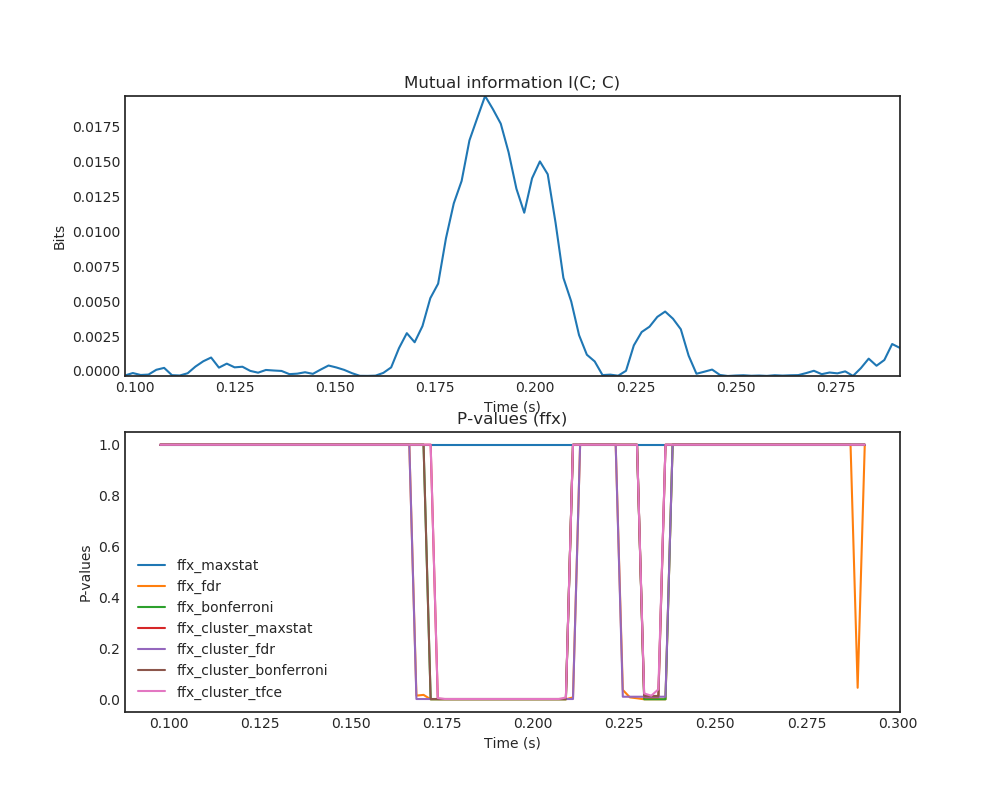
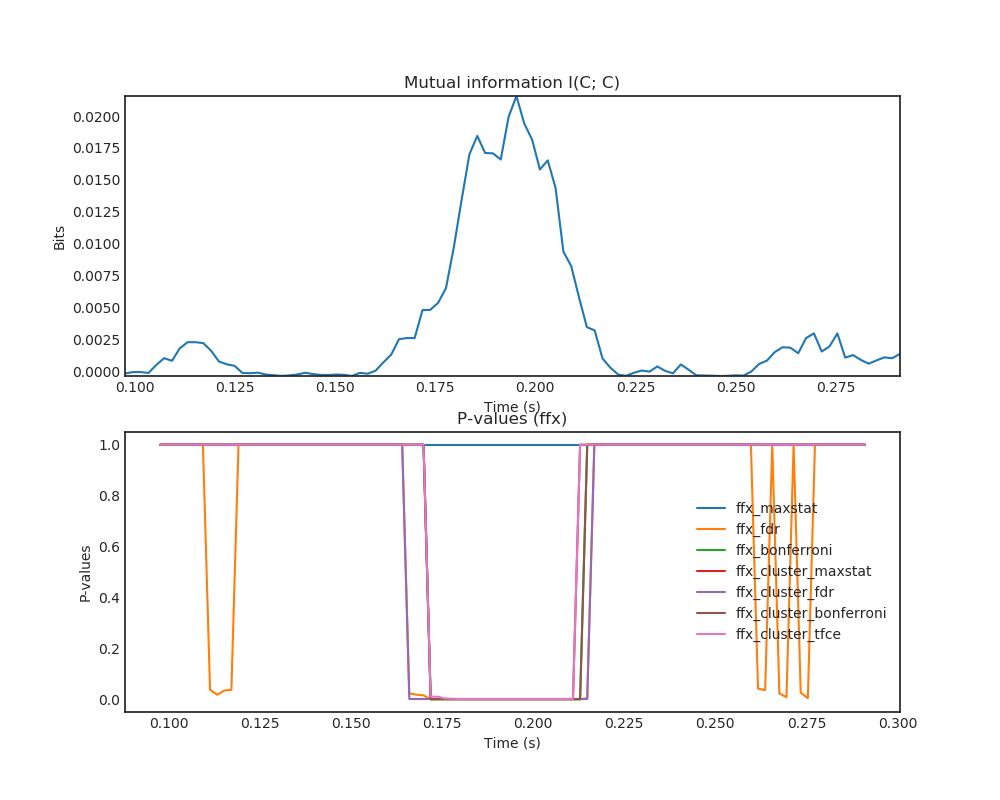
Make install

diff --git a/_modules/frites/workflow/wf_mi.html b/_modules/frites/workflow/wf_mi.html
@@ -479,58 +479,6 @@
 <span class="sd">        of this list has a shape of (n_subjects, n_times) if `inference` is</span>
 <span class="sd">        &#39;rfx&#39; (1, n_times) if `inference` is &#39;ffx&#39;.&quot;&quot;&quot;</span>
         <span class="k">return</span> <span class="bp">self</span><span class="o">.</span><span class="n">_mi_p</span></div>
-    
-    
-
-
-<span class="k">if</span> <span class="vm">__name__</span> <span class="o">==</span> <span class="s1">&#39;__main__&#39;</span><span class="p">:</span>
-    <span class="kn">import</span> <span class="nn">matplotlib.pyplot</span> <span class="k">as</span> <span class="nn">plt</span>
-
-    <span class="kn">from</span> <span class="nn">frites.simulations</span> <span class="k">import</span> <span class="p">(</span><span class="n">sim_multi_suj_ephy</span><span class="p">,</span> <span class="n">sim_mi_cc</span><span class="p">,</span> <span class="n">sim_mi_cd</span><span class="p">,</span>
-                                    <span class="n">sim_mi_ccd</span><span class="p">)</span>
-    <span class="kn">from</span> <span class="nn">frites.dataset</span> <span class="k">import</span> <span class="n">DatasetEphy</span>
-    <span class="kn">from</span> <span class="nn">frites.core</span> <span class="k">import</span> <span class="n">mi_nd_gg</span>
-
-    <span class="n">modality</span> <span class="o">=</span> <span class="s1">&#39;meeg&#39;</span>
-    <span class="n">n_subjects</span> <span class="o">=</span> <span class="mi">10</span>
-    <span class="n">n_epochs</span> <span class="o">=</span> <span class="mi">100</span>
-    <span class="n">n_times</span> <span class="o">=</span> <span class="mi">40</span>
-    <span class="n">n_roi</span> <span class="o">=</span> <span class="mi">5</span>
-    <span class="n">n_sites_per_roi</span> <span class="o">=</span> <span class="mi">1</span>
-    <span class="n">as_mne</span> <span class="o">=</span> <span class="kc">False</span>
-    <span class="n">x</span><span class="p">,</span> <span class="n">roi</span><span class="p">,</span> <span class="n">time</span> <span class="o">=</span> <span class="n">sim_multi_suj_ephy</span><span class="p">(</span><span class="n">n_subjects</span><span class="o">=</span><span class="n">n_subjects</span><span class="p">,</span> <span class="n">n_epochs</span><span class="o">=</span><span class="n">n_epochs</span><span class="p">,</span>
-                                      <span class="n">n_times</span><span class="o">=</span><span class="n">n_times</span><span class="p">,</span> <span class="n">n_roi</span><span class="o">=</span><span class="n">n_roi</span><span class="p">,</span>
-                                      <span class="n">n_sites_per_roi</span><span class="o">=</span><span class="n">n_sites_per_roi</span><span class="p">,</span>
-                                      <span class="n">as_mne</span><span class="o">=</span><span class="n">as_mne</span><span class="p">,</span> <span class="n">modality</span><span class="o">=</span><span class="n">modality</span><span class="p">,</span>
-                                      <span class="n">random_state</span><span class="o">=</span><span class="mi">1</span><span class="p">)</span>
-    <span class="n">z</span> <span class="o">=</span> <span class="kc">None</span>
-    <span class="c1"># x, y, _ = sim_mi_cd(x, snr=.9)</span>
-    <span class="c1"># x, y, _ = sim_mi_cd(x, snr=.9)</span>
-    <span class="n">y</span><span class="p">,</span> <span class="n">z</span><span class="p">,</span> <span class="n">_</span> <span class="o">=</span> <span class="n">sim_mi_ccd</span><span class="p">(</span><span class="n">x</span><span class="p">,</span> <span class="n">snr</span><span class="o">=.</span><span class="mi">2</span><span class="p">)</span>
-    <span class="n">time</span> <span class="o">=</span> <span class="n">np</span><span class="o">.</span><span class="n">arange</span><span class="p">(</span><span class="n">n_times</span><span class="p">)</span> <span class="o">/</span> <span class="mi">512</span>
-
-    <span class="c1"># y_t = np.tile(y[0].reshape(-1, 1, 1), (1, x[0].shape[1], 100))</span>
-    <span class="c1"># print(x[0].shape, y[0].shape)</span>
-    <span class="c1"># mi_t = mi_nd_gg(x[0], y_t, traxis=0)</span>
-
-    <span class="c1"># plt.plot(mi_t.T)</span>
-    <span class="c1"># plt.show()</span>
-    <span class="c1"># exit()</span>
-
-    <span class="n">dt</span> <span class="o">=</span> <span class="n">DatasetEphy</span><span class="p">(</span><span class="n">x</span><span class="p">,</span> <span class="n">y</span><span class="p">,</span> <span class="n">z</span><span class="o">=</span><span class="n">z</span><span class="p">,</span> <span class="n">roi</span><span class="o">=</span><span class="n">roi</span><span class="p">,</span> <span class="n">times</span><span class="o">=</span><span class="n">time</span><span class="p">)</span>
-    <span class="n">wf</span> <span class="o">=</span> <span class="n">WfMi</span><span class="p">(</span><span class="s1">&#39;ccd&#39;</span><span class="p">,</span> <span class="s1">&#39;rfx&#39;</span><span class="p">)</span>
-    <span class="c1"># mi, pvalues = wf.fit(dt, n_jobs=-1, n_perm=20, stat_method=&#39;ffx_fdr&#39;)</span>
-    <span class="n">mi</span><span class="p">,</span> <span class="n">pvalues</span> <span class="o">=</span> <span class="n">wf</span><span class="o">.</span><span class="n">fit</span><span class="p">(</span><span class="n">dt</span><span class="p">,</span> <span class="n">n_jobs</span><span class="o">=-</span><span class="mi">1</span><span class="p">,</span> <span class="n">n_perm</span><span class="o">=</span><span class="mi">100</span><span class="p">,</span>
-                         <span class="n">stat_method</span><span class="o">=</span><span class="s1">&#39;rfx_cluster_ttest_tfce&#39;</span><span class="p">)</span>
-
-    <span class="kn">import</span> <span class="nn">matplotlib.pyplot</span> <span class="k">as</span> <span class="nn">plt</span>
-    <span class="n">plt</span><span class="o">.</span><span class="n">subplot</span><span class="p">(</span><span class="mi">211</span><span class="p">)</span>
-    <span class="n">plt</span><span class="o">.</span><span class="n">plot</span><span class="p">(</span><span class="n">mi</span><span class="p">)</span>
-    <span class="n">plt</span><span class="o">.</span><span class="n">subplot</span><span class="p">(</span><span class="mi">212</span><span class="p">)</span>
-    <span class="n">plt</span><span class="o">.</span><span class="n">plot</span><span class="p">(</span><span class="n">pvalues</span><span class="p">)</span>
-    <span class="n">plt</span><span class="o">.</span><span class="n">legend</span><span class="p">()</span>
-
-    <span class="n">plt</span><span class="o">.</span><span class="n">show</span><span class="p">()</span>
 </pre></div>
 
     </div>

diff --git a/auto_examples/workflow/sg_execution_times.html b/auto_examples/workflow/sg_execution_times.html
@@ -177,10 +177,10 @@
       
   <div class="section" id="computation-times">
 <span id="sphx-glr-auto-examples-workflow-sg-execution-times"></span><h1>Computation times<a class="headerlink" href="#computation-times" title="Permalink to this headline">¶</a></h1>
-<p><strong>00:07.802</strong> total execution time for <strong>auto_examples_workflow</strong> files:</p>
+<p><strong>00:06.563</strong> total execution time for <strong>auto_examples_workflow</strong> files:</p>
 <ul class="simple">
-<li><p><strong>00:04.957</strong>: <a class="reference internal" href="plot_workflow_mi_stats_compare_ffx.html#sphx-glr-auto-examples-workflow-plot-workflow-mi-stats-compare-ffx-py"><span class="std std-ref">Compare within-subjects statistics when computing mutual information</span></a> (<code class="docutils literal notranslate"><span class="pre">plot_workflow_mi_stats_compare_ffx.py</span></code>)</p></li>
-<li><p><strong>00:02.845</strong>: <a class="reference internal" href="plot_workflow_mi_stats_compare_rfx.html#sphx-glr-auto-examples-workflow-plot-workflow-mi-stats-compare-rfx-py"><span class="std std-ref">Compare between-subjects statistics when computing mutual information</span></a> (<code class="docutils literal notranslate"><span class="pre">plot_workflow_mi_stats_compare_rfx.py</span></code>)</p></li>
+<li><p><strong>00:04.249</strong>: <a class="reference internal" href="plot_workflow_mi_stats_compare_ffx.html#sphx-glr-auto-examples-workflow-plot-workflow-mi-stats-compare-ffx-py"><span class="std std-ref">Compare within-subjects statistics when computing mutual information</span></a> (<code class="docutils literal notranslate"><span class="pre">plot_workflow_mi_stats_compare_ffx.py</span></code>)</p></li>
+<li><p><strong>00:02.314</strong>: <a class="reference internal" href="plot_workflow_mi_stats_compare_rfx.html#sphx-glr-auto-examples-workflow-plot-workflow-mi-stats-compare-rfx-py"><span class="std std-ref">Compare between-subjects statistics when computing mutual information</span></a> (<code class="docutils literal notranslate"><span class="pre">plot_workflow_mi_stats_compare_rfx.py</span></code>)</p></li>
 </ul>
 </div>
 

diff --git a/auto_examples/simulations/sg_execution_times.html b/auto_examples/simulations/sg_execution_times.html
@@ -177,9 +177,9 @@
       
   <div class="section" id="computation-times">
 <span id="sphx-glr-auto-examples-simulations-sg-execution-times"></span><h1>Computation times<a class="headerlink" href="#computation-times" title="Permalink to this headline">¶</a></h1>
-<p><strong>00:00.529</strong> total execution time for <strong>auto_examples_simulations</strong> files:</p>
+<p><strong>00:00.487</strong> total execution time for <strong>auto_examples_simulations</strong> files:</p>
 <ul class="simple">
-<li><p><strong>00:00.529</strong>: <a class="reference internal" href="plot_generate_random_data.html#sphx-glr-auto-examples-simulations-plot-generate-random-data-py"><span class="std std-ref">Generate random electrophysiological data</span></a> (<code class="docutils literal notranslate"><span class="pre">plot_generate_random_data.py</span></code>)</p></li>
+<li><p><strong>00:00.487</strong>: <a class="reference internal" href="plot_generate_random_data.html#sphx-glr-auto-examples-simulations-plot-generate-random-data-py"><span class="std std-ref">Generate random electrophysiological data</span></a> (<code class="docutils literal notranslate"><span class="pre">plot_generate_random_data.py</span></code>)</p></li>
 </ul>
 </div>
 

diff --git a/auto_examples/simulations/plot_generate_random_data.html b/auto_examples/simulations/plot_generate_random_data.html
@@ -268,7 +268,7 @@ n_sites, n_times)</p>
 </pre></div>
 </div>
 <img alt="../../_images/sphx_glr_plot_generate_random_data_002.png" class="sphx-glr-single-img" src="../../_images/sphx_glr_plot_generate_random_data_002.png" />
-<p class="sphx-glr-timing"><strong>Total running time of the script:</strong> ( 0 minutes  0.529 seconds)</p>
+<p class="sphx-glr-timing"><strong>Total running time of the script:</strong> ( 0 minutes  0.487 seconds)</p>
 <div class="sphx-glr-footer class sphx-glr-footer-example docutils container" id="sphx-glr-download-auto-examples-simulations-plot-generate-random-data-py">
 <div class="sphx-glr-download docutils container">
 <p><a class="reference download internal" download="" href="../../_downloads/45ac053df00f08bce9d16c0fafbac235/plot_generate_random_data.py"><code class="xref download docutils literal notranslate"><span class="pre">Download</span> <span class="pre">Python</span> <span class="pre">source</span> <span class="pre">code:</span> <span class="pre">plot_generate_random_data.py</span></code></a></p>

diff --git a/auto_examples/workflow/plot_workflow_mi_stats_compare_ffx.html b/auto_examples/workflow/plot_workflow_mi_stats_compare_ffx.html
@@ -280,7 +280,7 @@ variables. And we also specify the inference type ‘ffx’ for fixed-effect</p>
   plt.subplot(212)
 </pre></div>
 </div>
-<p class="sphx-glr-timing"><strong>Total running time of the script:</strong> ( 0 minutes  4.957 seconds)</p>
+<p class="sphx-glr-timing"><strong>Total running time of the script:</strong> ( 0 minutes  4.249 seconds)</p>
 <div class="sphx-glr-footer class sphx-glr-footer-example docutils container" id="sphx-glr-download-auto-examples-workflow-plot-workflow-mi-stats-compare-ffx-py">
 <div class="sphx-glr-download docutils container">
 <p><a class="reference download internal" download="" href="../../_downloads/bea65dfa94c74187057eb7a270ebce36/plot_workflow_mi_stats_compare_ffx.py"><code class="xref download docutils literal notranslate"><span class="pre">Download</span> <span class="pre">Python</span> <span class="pre">source</span> <span class="pre">code:</span> <span class="pre">plot_workflow_mi_stats_compare_ffx.py</span></code></a></p>

diff --git a/auto_examples/workflow/plot_workflow_mi_stats_compare_rfx.html b/auto_examples/workflow/plot_workflow_mi_stats_compare_rfx.html
@@ -278,7 +278,7 @@ variables. And we also specify the inference type ‘ffx’ for fixed-effect</p>
   plt.subplot(212)
 </pre></div>
 </div>
-<p class="sphx-glr-timing"><strong>Total running time of the script:</strong> ( 0 minutes  2.845 seconds)</p>
+<p class="sphx-glr-timing"><strong>Total running time of the script:</strong> ( 0 minutes  2.314 seconds)</p>
 <div class="sphx-glr-footer class sphx-glr-footer-example docutils container" id="sphx-glr-download-auto-examples-workflow-plot-workflow-mi-stats-compare-rfx-py">
 <div class="sphx-glr-download docutils container">
 <p><a class="reference download internal" download="" href="../../_downloads/7694610aa28a499f60c2ff73cf40cc34/plot_workflow_mi_stats_compare_rfx.py"><code class="xref download docutils literal notranslate"><span class="pre">Download</span> <span class="pre">Python</span> <span class="pre">source</span> <span class="pre">code:</span> <span class="pre">plot_workflow_mi_stats_compare_rfx.py</span></code></a></p>
